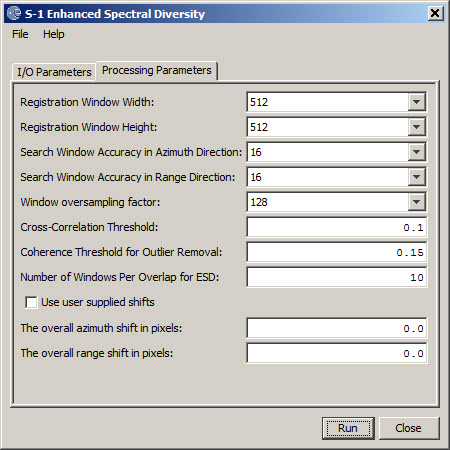
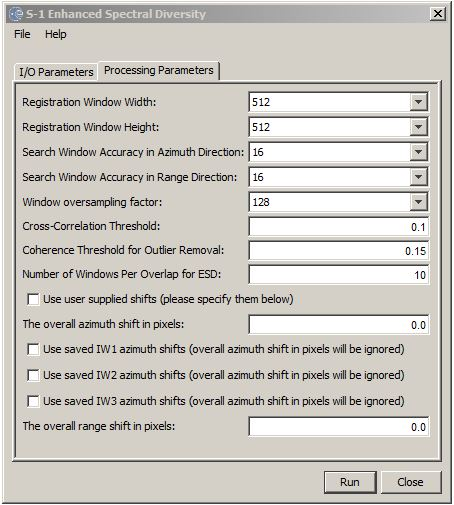
S1TBX-497: Apply ESD correction values from ASCII file

diff --git a/s1tbx-op-sentinel1-ui/src/main/resources/org/esa/s1tbx/sentinel1/docs/operators/SpectralDiversityOp.html b/s1tbx-op-sentinel1-ui/src/main/resources/org/esa/s1tbx/sentinel1/docs/operators/SpectralDiversityOp.html
@@ -7,7 +7,8 @@
 
 
 <meta http-equiv="Content-Type" content="text/html; charset=iso-8859-1">
-<link rel="stylesheet" href="../style.css"></head><body>
+<link rel="stylesheet" href="../style.css"></head>
+<body>
 <table class="header">
 <tbody>
 <tr class="header">
@@ -37,7 +38,7 @@ azimuth offset is obtained by averaging all the estimations. <br>
 <p class="MsoNormal"><span>The estimated range and azimuth shifts are
 saved in the metadata of the output product. The ESD estimations for
 all windows and all overlaps are saved in and ASCII file with master
-and slave azquisition dates and "_azimuth_shift" in the file name. The
+and slave acquisition dates and "_azimuth_shift" in the file name. The
 file can be found at user's \.snap\var\log folder. <br>
 </span>
 </p>
@@ -45,7 +46,11 @@ file can be found at user's \.snap\var\log folder. <br>
 <p class="MsoNormal"><span>Finally, the operator performs range and
 azimuth corrections for every burst using the range and azimuth offsets
 estimated above with a phase
-ramp method in frequency domain</span>.<br>
+ramp method in frequency domain</span>.</p><p class="MsoNormal">When
+using ESD estimations read from ASCII files that were saved previously,
+an average is taken of all the estimates from the subswaths selected by
+the user. E.g., if the user selects IW1 and IW3, then one average is
+taken of the estimates from both IW1 and IW3.
 <span style=""><o:p></o:p></span></p>
 <h4>Input <br>
 </h4>
@@ -110,7 +115,7 @@ considered valid, otherwise invalid.</li>
   <li>Number of Windows Per Overlap for ESD: The number of windows for azimuth offset estimation using ESD for each overlap area.</li>
   <li>Use User supplied shifts: If the checkbox is selected, then user
 supplied azimuth and range offsets will be used in shifting the image.
-No cross-correlation or ESD will be performed to estimate the offsets.</li>
+For azimuth offsets, user can enter the shift value to be used, or check the box(es)&nbsp;to read the&nbsp;<span>ESD estimations saved in ASCII files (assumed to be located in </span><span>user's \.snap\var\log folder)</span><span>.</span> No cross-correlation or ESD will be performed to estimate the offsets.</li>
   <li>The overall azimuth shift in pixels: The user provided azimuth offset in pixels. <br>
   </li>
   <li>The overall range shift in pixels: The user provided range offset in pixels. <br>

diff --git a/s1tbx-op-sentinel1/src/main/java/org/esa/s1tbx/sentinel1/gpf/SpectralDiversityOp.java b/s1tbx-op-sentinel1/src/main/java/org/esa/s1tbx/sentinel1/gpf/SpectralDiversityOp.java
@@ -19,13 +19,7 @@ import com.bc.ceres.core.ProgressMonitor;
 import edu.emory.mathcs.jtransforms.fft.DoubleFFT_1D;
 import org.apache.commons.math3.util.FastMath;
 import org.esa.s1tbx.insar.gpf.support.Sentinel1Utils;
-import org.esa.snap.core.datamodel.Band;
-import org.esa.snap.core.datamodel.MetadataAttribute;
-import org.esa.snap.core.datamodel.MetadataElement;
-import org.esa.snap.core.datamodel.PixelPos;
-import org.esa.snap.core.datamodel.Product;
-import org.esa.snap.core.datamodel.ProductData;
-import org.esa.snap.core.datamodel.VirtualBand;
+import org.esa.snap.core.datamodel.*;
 import org.esa.snap.core.dataop.downloadable.StatusProgressMonitor;
 import org.esa.snap.core.gpf.Operator;
 import org.esa.snap.core.gpf.OperatorException;
@@ -38,15 +32,9 @@ import org.esa.snap.core.gpf.annotations.TargetProduct;
 import org.esa.snap.core.util.ProductUtils;
 import org.esa.snap.core.util.SystemUtils;
 import org.esa.snap.engine_utilities.datamodel.AbstractMetadata;
-import org.esa.snap.engine_utilities.gpf.InputProductValidator;
-import org.esa.snap.engine_utilities.gpf.OperatorUtils;
-import org.esa.snap.engine_utilities.gpf.ReaderUtils;
-import org.esa.snap.engine_utilities.gpf.StackUtils;
-import org.esa.snap.engine_utilities.gpf.ThreadManager;
-import org.esa.snap.engine_utilities.gpf.TileIndex;
+import org.esa.snap.engine_utilities.gpf.*;
 import org.esa.snap.engine_utilities.util.ResourceUtils;
 import org.jblas.ComplexDoubleMatrix;
-import org.jlinda.core.Orbit;
 import org.jlinda.core.SLCImage;
 import org.jlinda.core.coregistration.utils.CoregistrationUtils;
 import org.jlinda.nest.utils.BandUtilsDoris;
@@ -54,12 +42,12 @@ import org.jlinda.nest.utils.CplxContainer;
 import org.jlinda.nest.utils.ProductContainer;
 import org.jlinda.nest.utils.TileUtilsDoris;
 
-import java.awt.Rectangle;
-import java.io.File;
-import java.io.FileOutputStream;
-import java.io.IOException;
-import java.io.PrintStream;
-import java.util.*;
+import java.awt.*;
+import java.io.*;
+import java.util.ArrayList;
+import java.util.HashMap;
+import java.util.List;
+import java.util.Map;
 
 /**
  * Estimate range and azimuth offsets for each burst using cross-correlation with a 512x512 block in
@@ -117,16 +105,30 @@ public class SpectralDiversityOp extends Operator {
     private int numBlocksPerOverlap = 10;
 
     @Parameter(description = "Use user supplied range and azimuth shifts", defaultValue = "false",
-            label = "Use user supplied shifts (please enter them below)")
+            label = "Use user supplied shifts (please specify them below)")
     private boolean useSuppliedShifts = false;
 
     @Parameter(description = "The overall azimuth shift", defaultValue = "0.0",
             label = "The overall azimuth shift in pixels")
     private double overallAzimuthShift = 0.0;
 
+    @Parameter(description = "Use saved IW1 azimuth shifts", defaultValue = "false",
+            label = "Use saved IW1 azimuth shifts (overall azimuth shift in pixels will be ignored)")
+    private boolean useSavedIW1AzSfifts = false;
+
+    @Parameter(description = "Use saved IW2 azimuth shifts", defaultValue = "false",
+            label = "Use saved IW2 azimuth shifts (overall azimuth shift in pixels will be ignored)")
+    private boolean useSavedIW2AzSfifts = false;
+
+    @Parameter(description = "Use saved IW3 azimuth shifts", defaultValue = "false",
+            label = "Use saved IW3 azimuth shifts (overall azimuth shift in pixels will be ignored)")
+    private boolean useSavedIW3AzSfifts = false;
+
     @Parameter(description = "The overall range shift", defaultValue = "0.0",
             label = "The overall range shift in pixels")
     private double overallRangeShift = 0.0;
+
+    private String[] azimSubSwaths = null;
 
     private int fineWinWidth = 0;
     private int fineWinHeight = 0;
@@ -198,10 +200,22 @@ public class SpectralDiversityOp extends Operator {
             }
 
             if (useSuppliedShifts) {
-
+                if (useSavedIW1AzSfifts || useSavedIW2AzSfifts || useSavedIW3AzSfifts) {
+                    List<String> list = new ArrayList<>();
+                    if (useSavedIW3AzSfifts) {
+                        list.add("IW3");
+                    }
+                    if (useSavedIW2AzSfifts) {
+                        list.add("IW2");
+                    }
+                    if (useSavedIW1AzSfifts) {
+                        list.add("IW1");
+                    }
+                    azimSubSwaths = list.toArray(new String[list.size()]);
+                } else {
+                    isAzimuthOffsetAvailable = true;
+                }
                 isRangeOffsetAvailable = true;
-                isAzimuthOffsetAvailable = true;
-
             } else {
 
                 fineWinWidth = Integer.parseInt(fineWinWidthStr);
@@ -224,6 +238,10 @@ public class SpectralDiversityOp extends Operator {
             constructSourceMetadata();
             constructTargetMetadata();
             createTargetProduct();
+
+            if (useSuppliedShifts && (useSavedIW1AzSfifts || useSavedIW2AzSfifts || useSavedIW3AzSfifts)) {
+                readAzimuthOffset();
+            }
             //System.out.println("SpectralDiversityOp.initialize: targetProduct name = " + targetProduct.getName());
 
         } catch (Throwable e) {
@@ -394,7 +412,7 @@ public class SpectralDiversityOp extends Operator {
             mstSlvTagElem.addElement(OverallRgAzShiftElem);
 
             if (!useSuppliedShifts) {
-                final MetadataElement RgShiftPerBurstElem = new MetadataElement("Range_Shift_Per_Burst");
+                final MetadataElement RgShiftPerBurstElem = new MetadataElement("Rangiw1e_Shift_Per_Burst");
                 RgShiftPerBurstElem.addElement(new MetadataElement(subSwathNames[0]));
                 mstSlvTagElem.addElement(RgShiftPerBurstElem);
 
@@ -405,6 +423,34 @@ public class SpectralDiversityOp extends Operator {
                 final MetadataElement AzShiftPerBlockElem = new MetadataElement("Azimuth_Shift_Per_Block");
                 AzShiftPerBlockElem.addElement(new MetadataElement(subSwathNames[0]));
                 mstSlvTagElem.addElement(AzShiftPerBlockElem);
+            } else {
+                if (useSavedIW1AzSfifts) {
+                    final MetadataElement iw1Elem = new MetadataElement("IW1");
+                    /*
+                    final MetadataElement overlapsElem = new MetadataElement("Overlaps");
+                    overlapsElem.addElement(new MetadataElement("Blocks"));
+                    iw1Elem.addElement(overlapsElem);
+                    */
+                    mstSlvTagElem.addElement(iw1Elem);
+                }
+                if (useSavedIW2AzSfifts) {
+                    final MetadataElement iw1Elem = new MetadataElement("IW2");
+                    /*
+                    final MetadataElement overlapsElem = new MetadataElement("Overlaps");
+                    overlapsElem.addElement(new MetadataElement("Blocks"));
+                    iw1Elem.addElement(overlapsElem);
+                    */
+                    mstSlvTagElem.addElement(iw1Elem);
+                }
+                if (useSavedIW3AzSfifts) {
+                    final MetadataElement iw1Elem = new MetadataElement("IW3");
+                    /*
+                    final MetadataElement overlapsElem = new MetadataElement("Overlaps");
+                    overlapsElem.addElement(new MetadataElement("Blocks"));
+                    iw1Elem.addElement(overlapsElem);
+                    */
+                    mstSlvTagElem.addElement(iw1Elem);
+                }
             }
 
             ESDMeasurement.addElement(mstSlvTagElem);
@@ -417,7 +463,10 @@ public class SpectralDiversityOp extends Operator {
                 final CplxContainer slave = targetMap.get(key).sourceSlave;
                 final String mstSlvTag = getMasterSlavePairTag(master, slave);
                 saveOverallRangeShift(mstSlvTag, overallRangeShift);
-                saveOverallAzimuthShift(mstSlvTag, overallAzimuthShift);
+                if (!(useSavedIW1AzSfifts || useSavedIW2AzSfifts || useSavedIW3AzSfifts)) {
+                    // save it later when it has been computed
+                    saveOverallAzimuthShift(mstSlvTag, overallAzimuthShift);
+                }
             }
         }
     }
@@ -443,7 +492,7 @@ public class SpectralDiversityOp extends Operator {
     @Override
      public void computeTileStack(Map<Band, Tile> targetTileMap, Rectangle targetRectangle, ProgressMonitor pm)
              throws OperatorException {
-
+        //System.out.println("SpectralDiversityOp.computeTileStack: isRangeOffsetAvailable = " + isRangeOffsetAvailable + " isAzimuthOffsetAvailable = " + isAzimuthOffsetAvailable);
         try {
             if (!isRangeOffsetAvailable) {
                 estimateRangeOffset();
@@ -456,21 +505,124 @@ public class SpectralDiversityOp extends Operator {
                 final CplxContainer slave = targetMap.get(key).sourceSlave;
 
                 double azOffset = 0.0, rgOffset = 0.0;
-                if (useSuppliedShifts) {
+                if (useSuppliedShifts && (!(useSavedIW1AzSfifts || useSavedIW2AzSfifts || useSavedIW3AzSfifts))) {
                     azOffset = overallAzimuthShift;
                     rgOffset = overallRangeShift;
-                } else {
+                } else { // estimated or read and averaged from file
                     final AzRgOffsets azRgOffsets = targetOffsetMap.get(key);
                     azOffset = azRgOffsets.azOffset;
                     rgOffset = azRgOffsets.rgOffset;
                 }
-
-                performRangeAzimuthShift(azOffset, rgOffset, slave.realBand, slave.imagBand, targetRectangle, targetTileMap);
+                //System.out.println("ESD: key = " + key + ": azOffset = " + azOffset + "; rgOffset = " + rgOffset);
+                //performRangeAzimuthShift(azOffset, rgOffset, slave.realBand, slave.imagBand, targetRectangle, targetTileMap);
             }
 
         } catch (Throwable e) {
             OperatorUtils.catchOperatorException(getId(), e);
         }
+    }
+
+    private double getAvgFromAzimuthOffsetFile(final File file, final int[] numValues, final List<AzimuthShiftData> azShiftArray) {
+        //File file = new File(filePathString);
+        if (!file.exists()) {
+            throw new OperatorException("Azimuth offset file does not exist: " + file.getAbsolutePath());
+        }
+        //System.out.println("Azimuth offset file exists: " + file.getAbsolutePath());
+
+        int numLines = 0;
+        int numCols = 0;
+        double avg = 0.0;
+        try {
+            BufferedReader br = new BufferedReader(new FileReader(file));
+            String line = br.readLine();
+            String[] cols = line.split(" ");
+            for (int i = 0; i < cols.length; i++) {
+                //System.out.println("cols[" + i + "] = " + cols[i]);
+                if (cols[i] != null && cols[i].length() > 0) {
+                    //System.out.println("1st line cols[" + numCols + "] = " + cols[i]);
+                    numCols++;
+                }
+            }
+            while (line != null) {
+                numLines++;
+                if (line.contains("Mean")) {
+                    cols = line.split("=");
+                    avg = Double.parseDouble(cols[1].trim());
+                } else {
+                    cols = line.split(" ");
+                    int j = 0;
+                    for (int i = 0; i < cols.length; i++) {
+                        if (cols[i] != null && cols[i].length() > 0) {
+                            AzimuthShiftData data = new AzimuthShiftData(numLines - 1, j, Double.parseDouble(cols[i]));
+                            azShiftArray.add(data);
+                            j++;
+                        }
+                    }
+                }
+                //System.out.println("line = " + line);
+                line =  br.readLine();
+            }
+        } catch (Exception e) {
+            throw new OperatorException("Fail to read azimuth offset file: " + e.getMessage());
+        }
+
+        //System.out.println(file.getAbsolutePath() + ": numLines = " + numLines + " numCols = " + numCols + " avg = " + avg);
+        numValues[0] = (numLines - 2) * numCols;
+        return avg;
+    }
+
+    private synchronized void readAzimuthOffset() {
+
+        //System.out.println("ESD.readAzimuthOffset: isAzimuthOffsetAvailable = " + isAzimuthOffsetAvailable + " targetMap.size = " + targetMap.size() + " azimSubSwaths.length = " + azimSubSwaths.length);
+
+        if (isAzimuthOffsetAvailable) return; // not really needed?
+
+        //final String fileLocation = sourceProduct.getFileLocation().getParentFile().getAbsolutePath();
+
+        //System.out.println("SpectralDiversityOp.readAzimuthOffset: file location = " + fileLocation);
+        for (String key : targetMap.keySet()) {
+            List<AzimuthShiftData> azShiftArray = new ArrayList<>();
+
+            double sum = 0.0;
+            int numValues = 0;
+            double avg = 0.0;
+            final CplxContainer master = targetMap.get(key).sourceMaster;
+            final CplxContainer slave = targetMap.get(key).sourceSlave;
+            final String mstSlvTag = getMasterSlavePairTag(master, slave);
+            for (String s : azimSubSwaths) {
+                String fileName = mstSlvTag + "_azimuth_shift.txt";
+                if (!fileName.contains(s)) {
+                    fileName = fileName.replace(fileName.substring(0,3), s);
+                }
+                int[] tmp = new int[1] ;
+                avg = 0.0;
+                /*
+                if (fileLocation.contains("/")) {
+                    avg = getAvgFromAzimuthOffsetFile(fileLocation + '/' + fileName, tmp);
+                } else {
+                    avg = getAvgFromAzimuthOffsetFile(fileLocation + '\\' + fileName, tmp);
+                } */
+                azShiftArray.clear();
+                avg = getAvgFromAzimuthOffsetFile(new File(ResourceUtils.getReportFolder(), fileName), tmp, azShiftArray);
+                numValues += tmp[0];
+                sum += avg * tmp[0];
+                saveAzimuthShiftOverlapsBlocks(mstSlvTag, azShiftArray, s);
+                //System.out.println("SpectralDiversityOp.readAzimuthOffset: key = " + key + " filename = " + fileName + ": avg = " + avg + " numValues = " + numValues);
+            }
+            // The value saved in file is negative of what is saved in targetOffsetMap
+            double azOffset = - (azimSubSwaths.length == 1 ? avg : (sum / numValues));
+            double rgOffset = useSuppliedShifts ? overallRangeShift : 0.0;
+            if (targetOffsetMap.get(key) == null) {
+                targetOffsetMap.put(key, new AzRgOffsets(azOffset, rgOffset));
+            } else { // should not be possible?
+                targetOffsetMap.get(key).setAzOffset(azOffset);
+            }
+
+            //System.out.println("readAzimuthOffset: save azOffset to metadata: " + azOffset);
+            saveOverallAzimuthShift(mstSlvTag, azOffset);
+        }
+
+        isAzimuthOffsetAvailable = true; // is this needed?
     }
 
     /**
@@ -957,6 +1109,35 @@ public class SpectralDiversityOp extends Operator {
         final MetadataElement mstSlvPairElem = ESDMeasurement.getElement(mstSlvPairTag);
         final MetadataElement AzShiftPerBlockElem = mstSlvPairElem.getElement("Azimuth_Shift_Per_Block");
         final MetadataElement swathElem = AzShiftPerBlockElem.getElement(subSwathNames[0]);
+
+        swathElem.addAttribute(new MetadataAttribute("count", ProductData.TYPE_INT16));
+        swathElem.setAttributeInt("count", azShiftArray.size());
+
+        for (int i = 0; i < azShiftArray.size(); i++) {
+            final MetadataElement overlapListElem = new MetadataElement("AzimuthShiftList." + i);
+            final MetadataAttribute azimuthShiftAttr = new MetadataAttribute("azimuthShift", ProductData.TYPE_FLOAT32);
+            azimuthShiftAttr.setUnit("pixel");
+            overlapListElem.addAttribute(azimuthShiftAttr);
+            overlapListElem.setAttributeDouble("azimuthShift", azShiftArray.get(i).shift);
+            overlapListElem.addAttribute(new MetadataAttribute("overlapIndex", ProductData.TYPE_INT16));
+            overlapListElem.setAttributeInt("overlapIndex", azShiftArray.get(i).overlapIndex);
+            overlapListElem.addAttribute(new MetadataAttribute("blockIndex", ProductData.TYPE_INT16));
+            overlapListElem.setAttributeInt("blockIndex", azShiftArray.get(i).blockIndex);
+            swathElem.addElement(overlapListElem);
+        }
+    }
+
+    private void saveAzimuthShiftOverlapsBlocks(final String mstSlvPairTag, final List<AzimuthShiftData> azShiftArray,
+                                                final String subswath) {
+        // TODO CW_TODO
+        final MetadataElement absTgt = AbstractMetadata.getAbstractedMetadata(targetProduct);
+        if (absTgt == null) {
+            return;
+        }
+
+        final MetadataElement ESDMeasurement = absTgt.getElement("ESD Measurement");
+        final MetadataElement mstSlvPairElem = ESDMeasurement.getElement(mstSlvPairTag);
+        final MetadataElement swathElem = mstSlvPairElem.getElement(subswath);
 
         swathElem.addAttribute(new MetadataAttribute("count", ProductData.TYPE_INT16));
         swathElem.setAttributeInt("count", azShiftArray.size());
